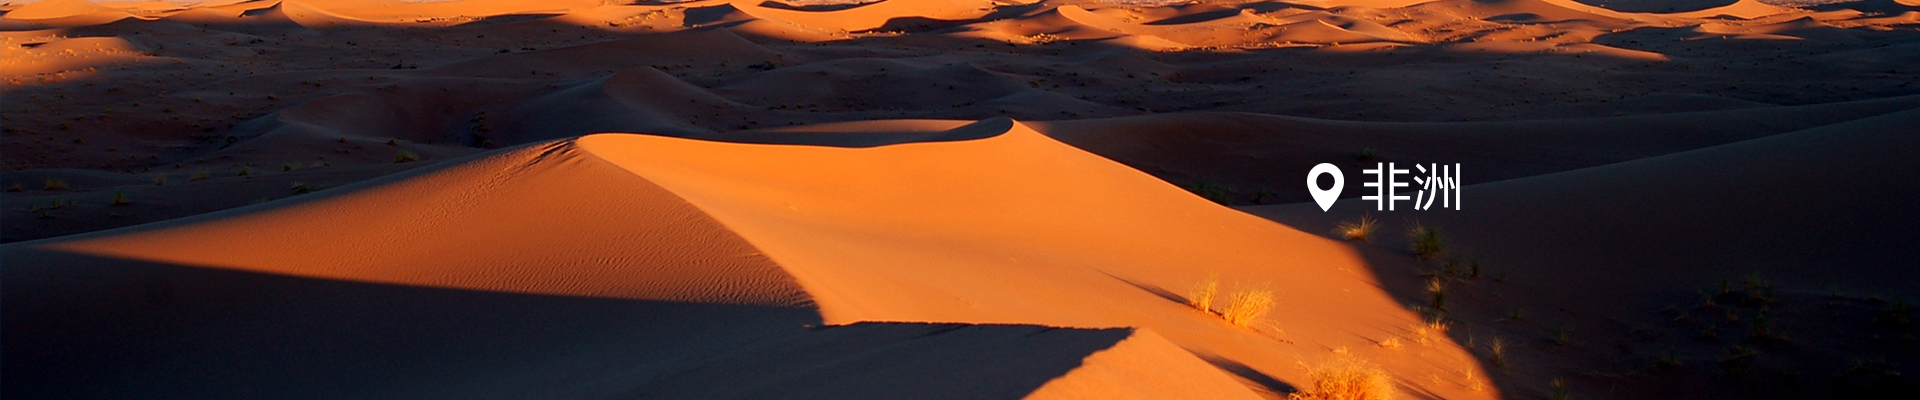
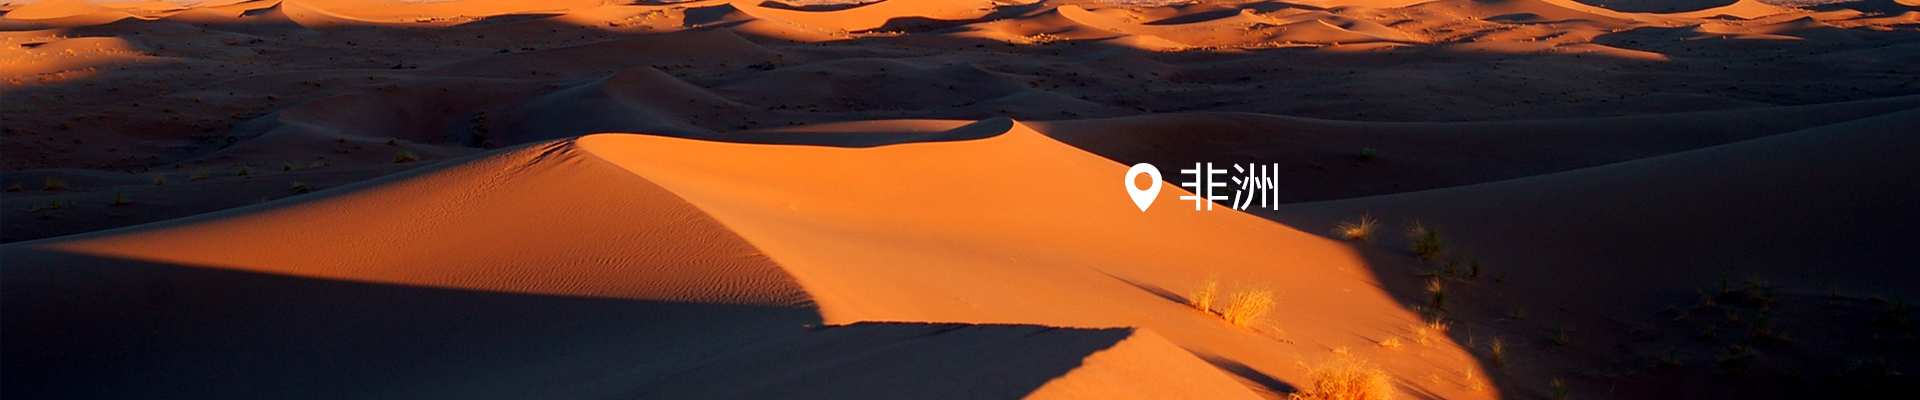
detail

Changed region(s): [[0.5625, 0.39, 0.7812, 0.54]]

diff --git a/css/style.css b/css/style.css
@@ -175,9 +175,9 @@ div.flicking_con a.on{background-position:0 -21px}
 .mark-right .like.active{  background-position: 18px -2195px;}
 
 .details-container{ position: relative; z-index: 1;}
-.details-left-bar{ float: left; width: 720px; padding-top: 20px; line-height: 30px;} 
+.details-left-bar{ float: left; width: 780px; padding-top: 20px; line-height: 30px;} 
 .details-left-bar img{ width: 100%; height: auto;}
-.details-right-bar{ float: right; width: 170px;}
+.details-right-bar{ float: right; width: 160px;}
 .details-left-bar h2{ font-size: 20px; font-weight: normal; color: #0a6cff; padding: 20px 0; margin-bottom: 15px; border-bottom: 1px solid #c8c8c8; position: relative;}
 .details-left-bar .travel-line{ font-size: 18px; color: #646464; padding-bottom: 40px; border-bottom: 1px solid #c8c8c8; line-height: 30px;}
 .details-left-bar p{ word-break: break-all; font-size: 14px; line-height: 30px; color: #646464; text-align: justify; padding-bottom: 20px;}
@@ -205,7 +205,7 @@ div.flicking_con a.on{background-position:0 -21px}
 
 #summary-t{ *height: 600px; min-height: 600px;}
 .details-left-bar .item{ *height: 150px; min-height: 150px;}
-.details-right-bar .navFix{ left: 50%; margin-left:330px; top: 68px; *top: 10px; background-color: #f0f0f0; z-index: 6;}
+.details-right-bar .navFix{ left: 50%; margin-left:340px; top: 68px; *top: 10px; background-color: #f0f0f0; z-index: 6;}
 
 
 /* form
